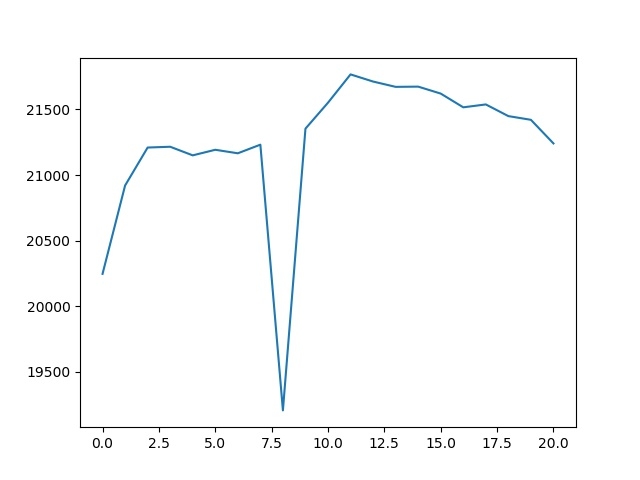
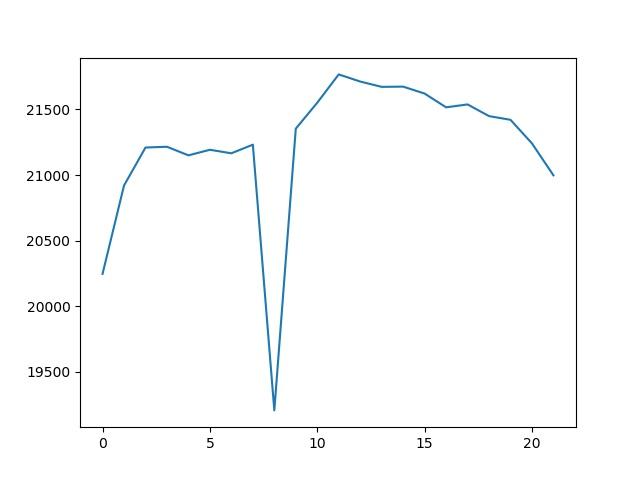
'auto'

diff --git a/README.md b/README.md
@@ -1,6 +1,6 @@
 Frizider live: 5
-21241.275 
-0
+20997.724999999995 
+1
 Temperatura:
 
 ![alt text](https://raw.githubusercontent.com/matej14086/frizider/master/images/temp.jpg?)
